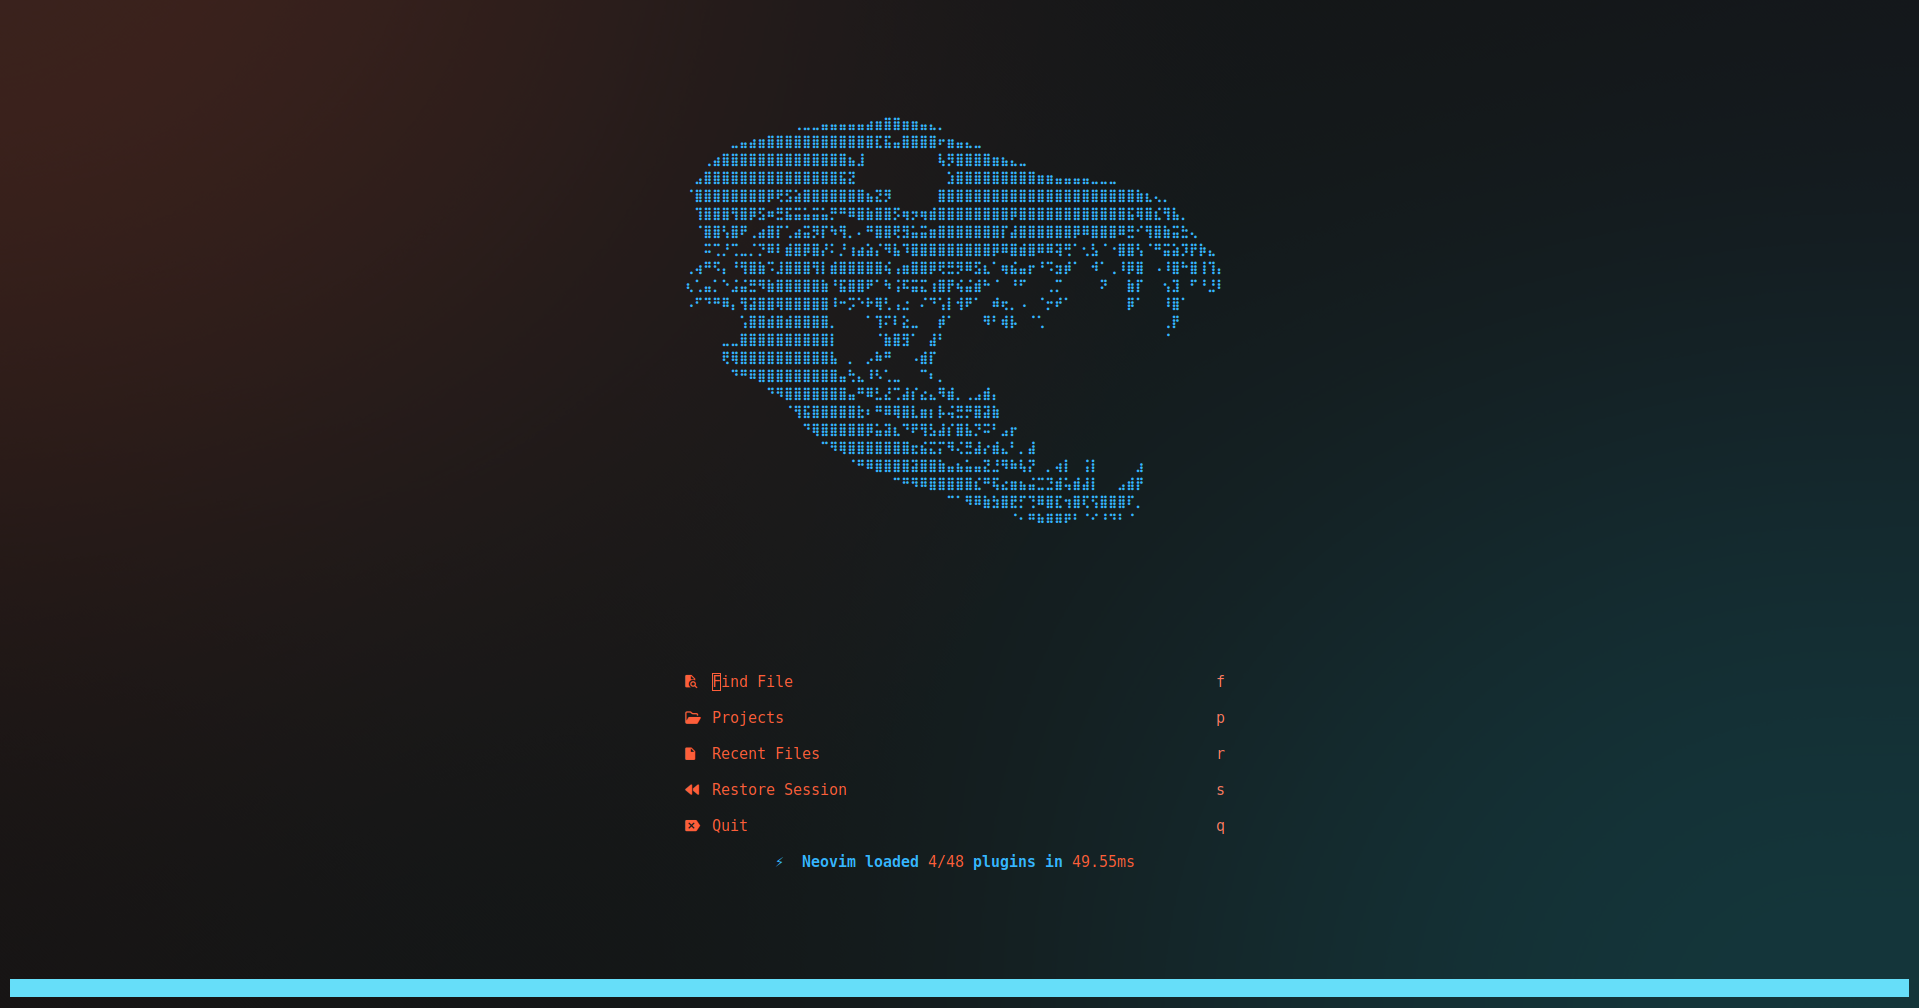
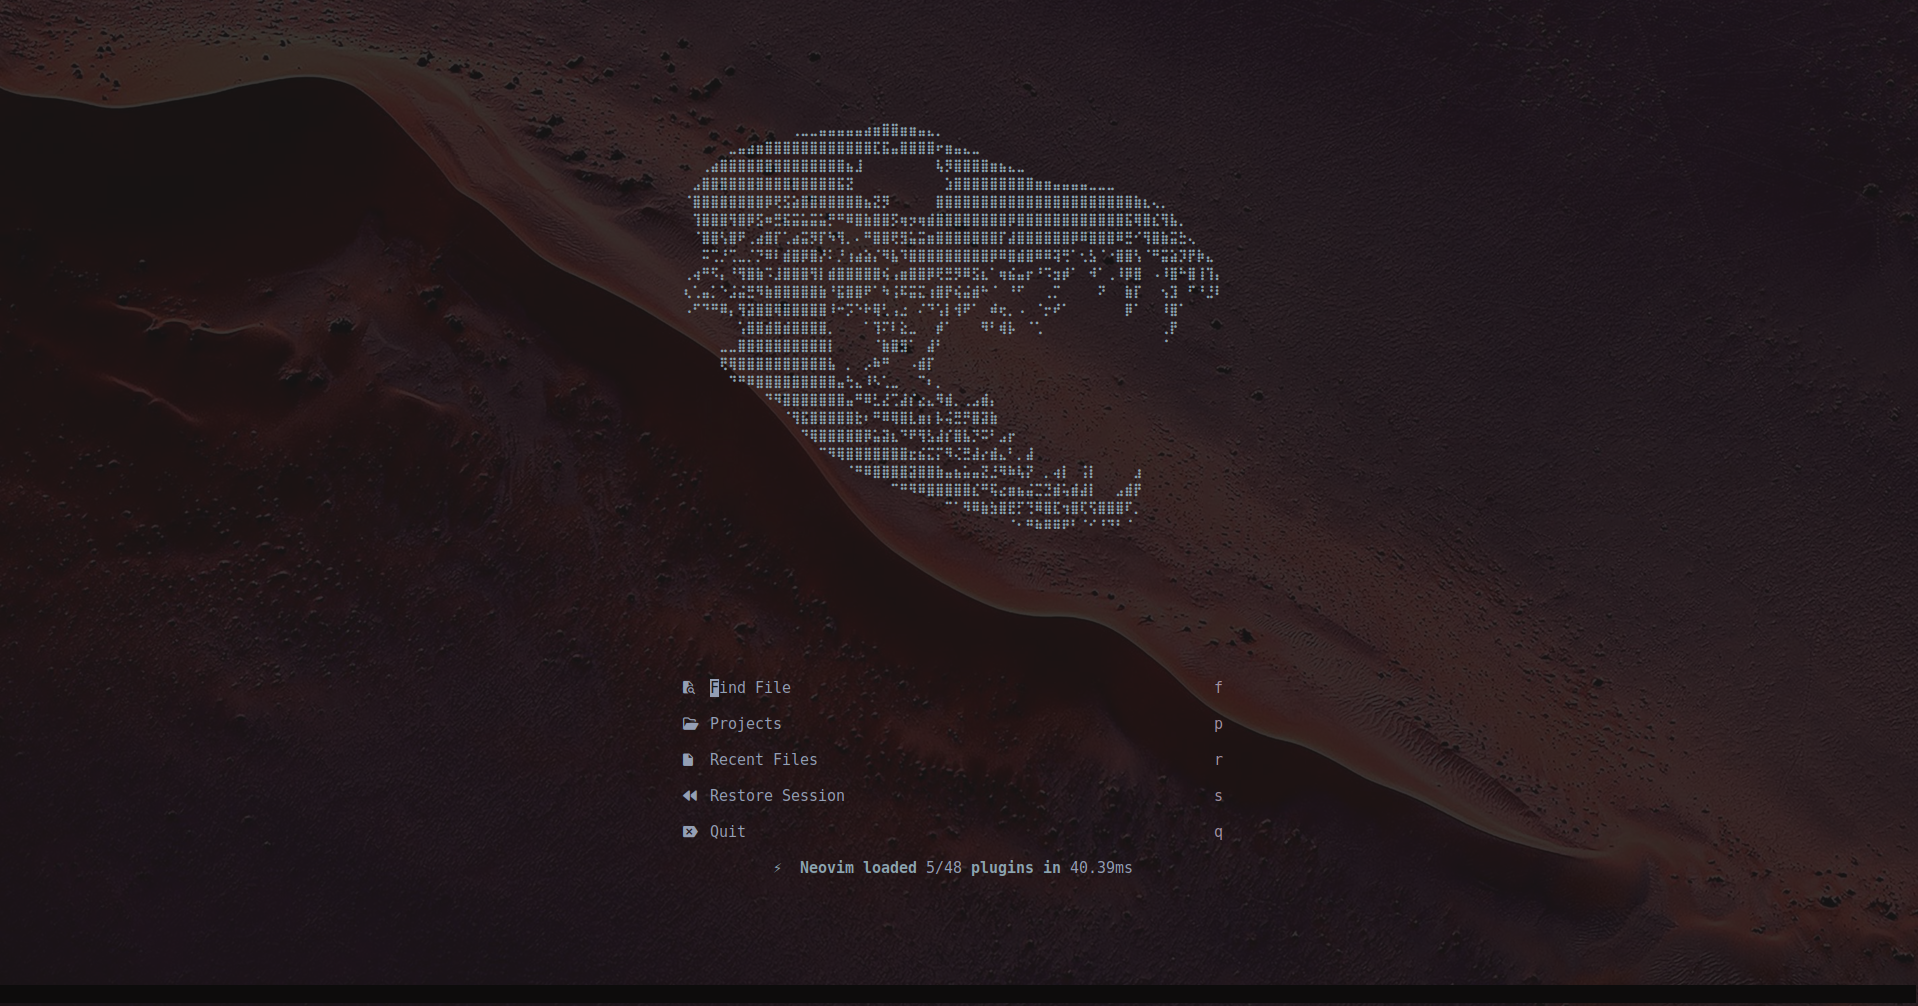
feat: change colorscheme to kanagawa

diff --git a/README.md b/README.md
@@ -2,16 +2,13 @@
 
 <div align="center">
 
-
 <h1 align="center">The Best Neovim Config</h1>
-
 
 <p align="center">
 
 [![Lua](https://img.shields.io/badge/Lua-2C2D72?style=for-the-badge&logo=lua&logoColor=white)](https://www.lua.org/)
 
 </p>
-
 
 </div>
 
@@ -36,10 +33,9 @@ This repo exists for two reasons:
 
 ### Looks
 
-- **[neofusion](https://github.com/diegoulloao/neofusion.nvim)** colorscheme with **transparent background**.
+- **[kanagawa](https://github.com/rebelot/kanagawa.nvim)** colorscheme with **transparent background**.
 - **Custom ASCII art dashboard** via `snacks.nvim`. It's huge, padded by 8 lines. It serves no functional purpose. It is the most important file in this repo.
 - **Rounded borders everywhere** (windows, completion menu, docs popups, floating terminal).
-- **Lualine** wearing neofusion's own theme with flat separators.
 - **Bufferline** with **thicc** separators.
 - **Smear cursor** and **mini.animate**.
 - **Treesitter context**.
@@ -128,7 +124,7 @@ Then run `:checkhealth` and fix whatever it yells about.
     │   ├── lazy.lua         # lazy.nvim bootstrap
     │   └── options.lua      # 4-space indent, rounded borders
     └── plugins
-        ├── colorscheme.lua  # neofusion, transparent
+        ├── colorscheme.lua  # kanagawa, transparent
         ├── dashboard.lua    # The ASCII art. The crown jewel.
         ├── editor.lua       # nvim-surround
         ├── lang-*.lua       # Per-language tweaks (go, make, markdown, sql)
@@ -141,7 +137,7 @@ Then run `:checkhealth` and fix whatever it yells about.
 ## 🙏 Credits
 
 - [folke](https://github.com/folke), for LazyVim, lazy.nvim, snacks.nvim, and basically my entire personality as a Neovim user.
-- [diegoulloao](https://github.com/diegoulloao), for neofusion.
+- [rebelot](https://github.com/rebelot), for kanagawa.
 - Me.
 
 ## 📜 License
